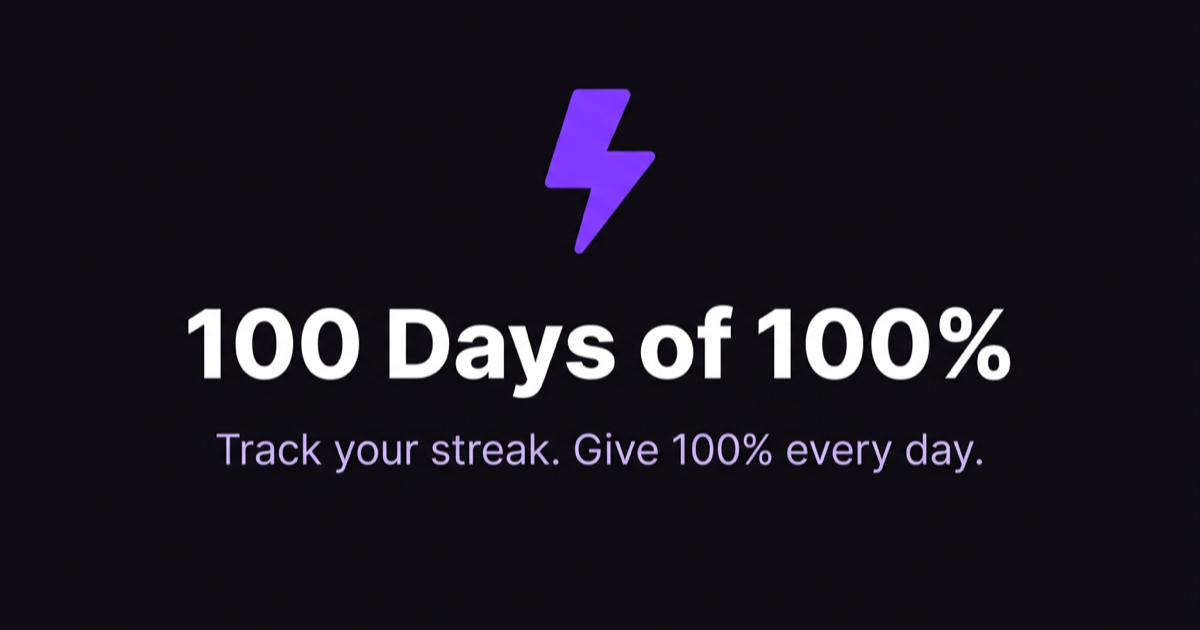
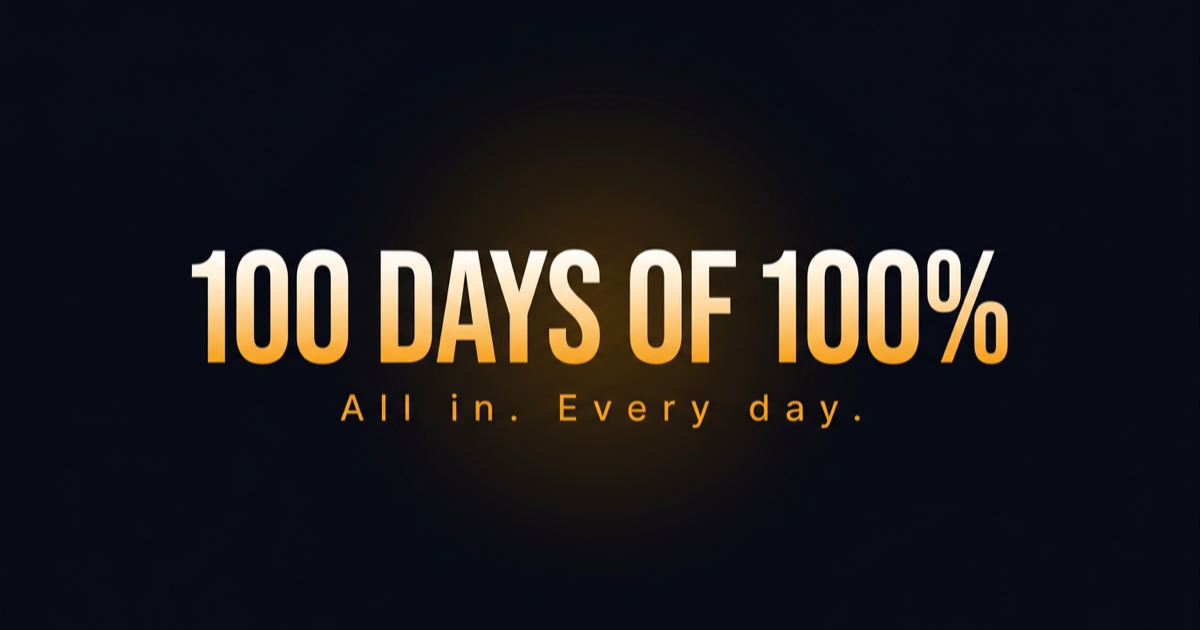
update: OG image and description to match site branding
New preview card uses the site's dark/amber color scheme with
"All in. Every day." tagline.

Made-with: Cursor

Changed region(s): [[0.1542, 0.1206, 0.8633, 0.754], [0.2775, 0.6333, 0.3392, 0.6635]]

diff --git a/index.html b/index.html
@@ -11,14 +11,14 @@
     <!-- Open Graph -->
     <meta property="og:type" content="website" />
     <meta property="og:title" content="100 Days of 100%" />
-    <meta property="og:description" content="Track your 100-day streak of giving 100% every single day." />
+    <meta property="og:description" content="All in. Every day." />
     <meta property="og:url" content="%VITE_SITE_URL%" />
     <meta property="og:image" content="%VITE_SITE_URL%/og-image.png" />
 
     <!-- Twitter Card -->
     <meta name="twitter:card" content="summary_large_image" />
     <meta name="twitter:title" content="100 Days of 100%" />
-    <meta name="twitter:description" content="Track your 100-day streak of giving 100% every single day." />
+    <meta name="twitter:description" content="All in. Every day." />
     <meta name="twitter:image" content="%VITE_SITE_URL%/og-image.png" />
   </head>
   <body>
